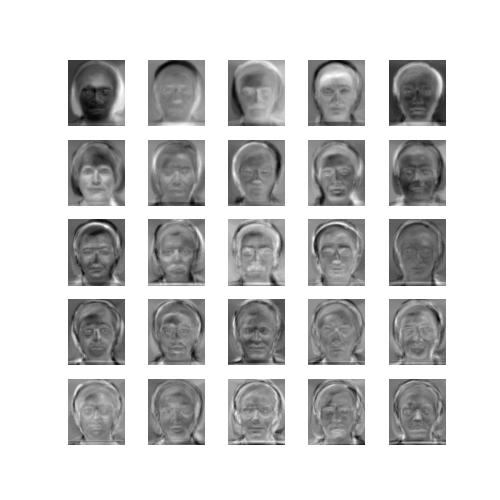
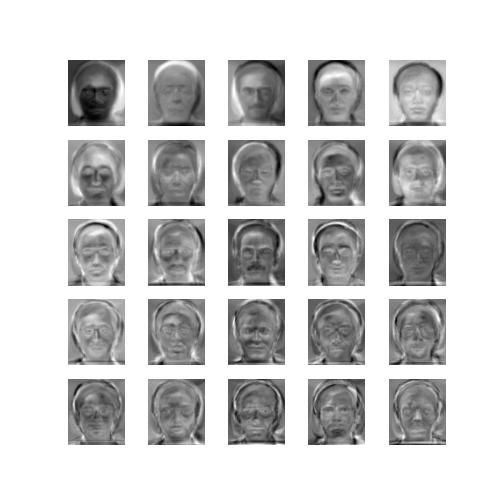
modify PCA algorithm and do it after image compression

diff --git a/hw7/ML_hw7_PCA_LDA.py b/hw7/ML_hw7_PCA_LDA.py
@@ -41,7 +41,7 @@ def resize_img(data):
                 tmp = 0
                 for i in range(3):
                     for j in range(3):
-                        tmp += train_img[img][(row*3 + i) * 195 + (col*3 + j)]
+                        tmp += data[img][(row*3 + i) * 195 + (col*3 + j)]
                 img_compress[img][row * 65 + col] = tmp // 9
 
     return img_compress
@@ -53,12 +53,15 @@ def resize_img(data):
 #     return (data - mean) / std
 
 def PCA(data):
-    mean = np.mean(data, axis = 0)
-    data_center = data - mean
-
-    covariance = data_center @ data_center.T / data_center.shape[0]
+    covariance = np.cov(data.T)
     eigenvalue, eigenvector = np.linalg.eigh(covariance)
-    eigenvector = data_center.T @ eigenvector
+    
+    # mean = np.mean(data, axis = 0)
+    # data_center = data - mean
+
+    # covariance = data_center @ data_center.T / data_center.shape[0]
+    # eigenvalue, eigenvector = np.linalg.eigh(covariance)
+    # eigenvector = data_center.T @ eigenvector
     
     index = np.argsort(-eigenvalue)
     eigenvector = eigenvector[:, index]
@@ -95,10 +98,10 @@ def LDA(data, label):
 
     return W
 
-def print_eigen_fisher_face(W, face, scale):
+def print_eigen_fisher_face(W, face):
     fig = plt.figure(figsize=(5, 5))
     for i in range(25):
-        img = W[:, i].reshape(231 // scale, 195 // scale)
+        img = W[:, i].reshape(77, 65)
         ax = fig.add_subplot(5, 5, i+1)
         ax.axis('off')
         ax.imshow(img, cmap='gray')
@@ -107,22 +110,22 @@ def print_eigen_fisher_face(W, face, scale):
         
     return
 
-def reconstruct_face(W, data, scale):
+def reconstruct_face(W, data, face):
     id = np.random.choice(135, 10, replace=False)
     fig = plt.figure(figsize=(8, 2))
     for i in range(10):
-        img = data[id[i]].reshape(231 // scale, 195 // scale)
+        img = data[id[i]].reshape(77, 65)
         ax = fig.add_subplot(2, 10, i + 1)
         ax.axis('off')
         ax.imshow(img, cmap='gray')
 
         x = img.reshape(1, -1)
         reconstruct_img = x @ W @ W.T
-        reconstruct_img = reconstruct_img.reshape(231 // scale, 195 // scale)
+        reconstruct_img = reconstruct_img.reshape(77, 65)
         ax = fig.add_subplot(2, 10, i + 11)
         ax.axis('off')
         ax.imshow(reconstruct_img, cmap='gray')
-    fig.savefig(f'./output/reconstruct.jpg')
+    fig.savefig(f'./output/reconstruct_{face}.jpg')
     plt.show()
 
     return
@@ -153,15 +156,16 @@ mode = int(input('Please select a mode (1~4): '))
 train_img, train_filename, train_label = load_imgs(TRAINING_PATH)
 test_img, test_filename, test_label = load_imgs(TESTING_PATH)
 
+train_img_compress = resize_img(train_img) #77 * 65
+test_img_compress = resize_img(test_img)
+
 if mode == 1:
-    W = PCA(train_img)
-    print_eigen_fisher_face(W, 'eigenface', 1)
-    reconstruct_face(W, train_img, 1)
-    predict(train_img, train_label, test_img, test_label, W)
+    W = PCA(train_img_compress)
+    print_eigen_fisher_face(W, 'eigenface')
+    reconstruct_face(W, train_img_compress, 'eigenface')
+    predict(train_img_compress, train_label, test_img_compress, test_label, W)
 elif mode == 2:
-    train_img_compress = resize_img(train_img) #77 * 65
-    test_img_compress = resize_img(test_img)
     W = LDA(train_img_compress, train_label)
-    print_eigen_fisher_face(W, 'fisherface', 3)
-    reconstruct_face(W, train_img_compress, 3)
+    print_eigen_fisher_face(W, 'fisherface')
+    reconstruct_face(W, train_img_compress, 'fisherface')
     predict(train_img_compress, train_label, test_img_compress, test_label, W)
